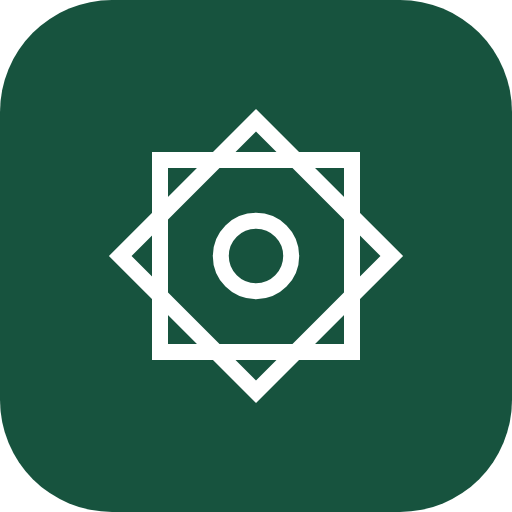
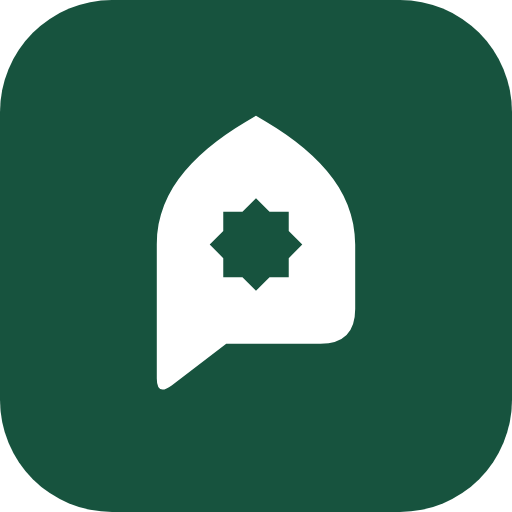
Switch the brand mark to the mihrab speech bubble

Changed region(s): [[0.2188, 0.2188, 0.7812, 0.7812]]

diff --git a/src/lib/og.tsx b/src/lib/og.tsx
@@ -1,6 +1,7 @@
 import { readFile } from "node:fs/promises";
 import { join } from "node:path";
 import { ImageResponse } from "next/og";
+import { BUBBLE, BUBBLE_STAR } from "@/components/ui/mark";
 import { site } from "./site";
 
 /** Share-card size every social app expects (1.91:1). */
@@ -14,13 +15,11 @@ const [serif, sans] = await Promise.all([
   font("inter", "inter-latin-600-normal.woff"),
 ]);
 
-// Same geometry as the brand mark in src/components/ui/mark.tsx.
-function Star({ size, stroke }: { size: number; stroke: number }) {
+function Mark({ size }: { size: number }) {
   return (
-    <svg width={size} height={size} viewBox="-50 -50 100 100" fill="none" stroke="white" strokeWidth={stroke}>
-      <rect x="-30" y="-30" width="60" height="60" />
-      <rect x="-30" y="-30" width="60" height="60" transform="rotate(45)" />
-      <circle r="11" />
+    <svg width={size} height={size} viewBox="0 0 64 64">
+      <path d={BUBBLE} fill="white" />
+      <path d={BUBBLE_STAR} fill="#17533e" />
     </svg>
   );
 }
@@ -69,7 +68,7 @@ export function shareCard({ label, title }: { label: string; title: string }) {
               justifyContent: "center",
             }}
           >
-            <Star size={38} stroke={5} />
+            <Mark size={42} />
           </div>
           <div style={{ fontSize: 34, fontWeight: 600, letterSpacing: -0.5 }}>{site.name}</div>
         </div>

diff --git a/src/components/ui/mark.tsx b/src/components/ui/mark.tsx
@@ -1,9 +1,16 @@
-/** Brand mark: an eight-point star on a green tile. Matches src/app/icon.svg. */
+/** Mihrab bubble: a pointed arch with a speech-bubble tail, in a 64×64 box. Matches src/app/icon.svg. */
+export const BUBBLE = "M12 30C12 18.5 20.5 10.5 32 4C43.5 10.5 52 18.5 52 30V43Q52 50 45 50H26L15 58.4Q12 60.6 12 57Z";
+/** The eight-point star that sits in the arch. */
+export const BUBBLE_STAR =
+  "M32 20.67L34.73 23.4L38.6 23.4L38.6 27.27L41.33 30L38.6 32.73L38.6 36.6L34.73 36.6L32 39.33L29.27 36.6L25.4 36.6L25.4 32.73L22.67 30L25.4 27.27L25.4 23.4L29.27 23.4Z";
+
+/** Brand mark: the mihrab bubble in green with a white star. */
 export function Mark({ className = "size-[34px]" }: { className?: string }) {
   return (
-    <span aria-hidden className={`grid shrink-0 place-items-center rounded-[10px] bg-green text-paper ${className}`}>
-      <Star className="size-[58%]" />
-    </span>
+    <svg viewBox="0 0 64 64" className={`shrink-0 ${className}`} aria-hidden="true">
+      <path d={BUBBLE} className="fill-green" />
+      <path d={BUBBLE_STAR} className="fill-paper" />
+    </svg>
   );
 }
 
